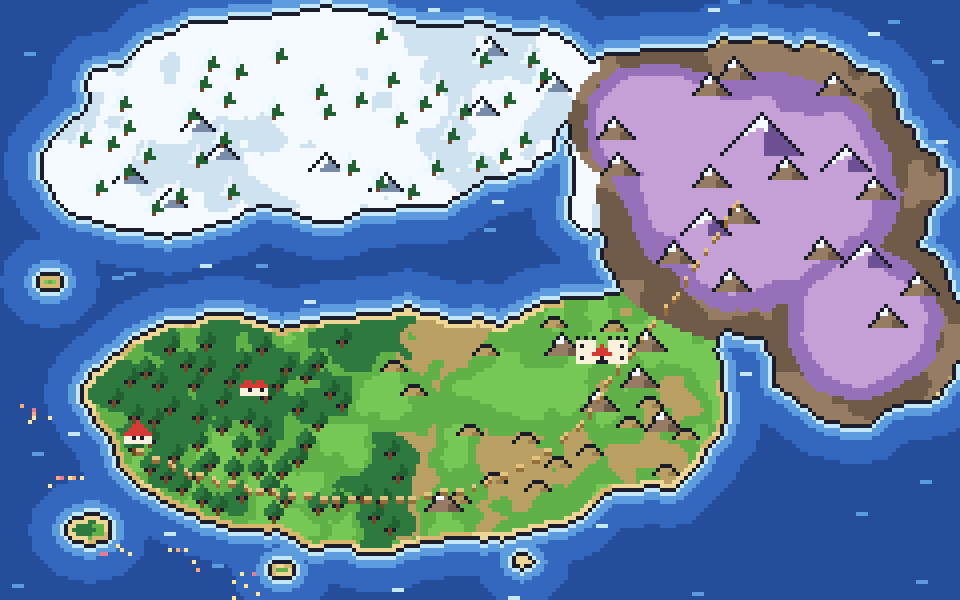
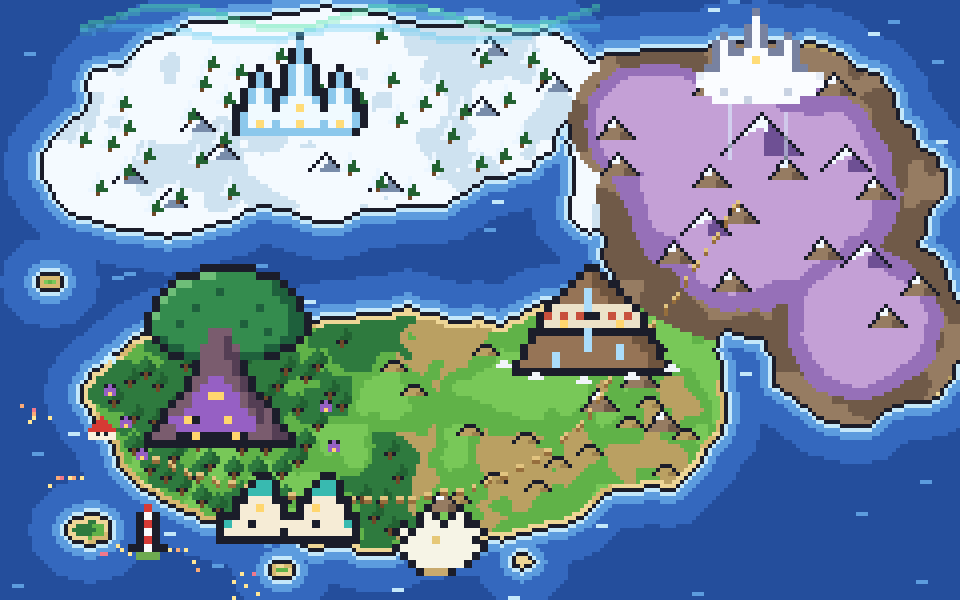
Aventura: Arena e Exploração num botão só, mapa com as cidades (#102)
- Botão ⚔ Aventura no topo abre a central com o cartão da Exploração
- Exploração volta para a Aventura; batalha selvagem volta para o mapa
- Mapa em pixel art com marcos de cada cidade (árvore de Sylphora,
  cúpulas e concha de Nerona, cidade na encosta de Altamuralha,
  catedral de gelo de Frostrine, castelo nas nuvens de Aelora)

Claude-Session: https://claude.ai/code/session_013JyCAbP4UpeaykqZdDYVhA

diff --git a/styles/explore-v7.css b/styles/explore-v7.css
@@ -6,7 +6,7 @@
 .ex7-topico{display:inline-grid;place-items:center;width:20px;height:20px}
 .ex7-px{image-rendering:pixelated;flex:none}
 
-.ex7{position:fixed;inset:0;z-index:10001;display:grid;place-items:center;padding:14px;background:rgba(8,14,12,.7);backdrop-filter:blur(2px)}
+.ex7{position:fixed;inset:0;z-index:10060;display:grid;place-items:center;padding:14px;background:rgba(8,14,12,.7);backdrop-filter:blur(2px)}
 .ex7[hidden]{display:none}
 body.ex7-open{overflow:hidden}
 .ex7-win{position:relative;width:min(1240px,100%);height:min(820px,calc(100vh - 28px));display:grid;grid-template-rows:auto 1fr;overflow:hidden;
@@ -29,19 +29,19 @@ body.ex7-open{overflow:hidden}
 .ex7-lifebar i.low{background:linear-gradient(180deg,#ff7a6e,#d0362c)}
 .ex7-lifebar b{position:relative;display:block;text-align:center;font:700 10px/12px var(--cl-pixel,monospace);color:#fff;text-shadow:0 1px 0 #000,1px 0 0 #000,-1px 0 0 #000,0 -1px 0 #000}
 .ex7-life small{font:700 9px var(--cl-pixel,monospace);white-space:nowrap;color:#5a4410}
-.ex7-x{width:38px;height:38px;border-radius:10px;border:3px solid #181a24;background:#fff;color:#181a24;font:900 16px inherit;cursor:pointer;box-shadow:0 3px 0 #181a24}
+.ex7-x{width:38px;height:38px;border-radius:10px;border:3px solid #181a24;background:#fff;color:#181a24;font-weight:900;font-size:16px;cursor:pointer;box-shadow:0 3px 0 #181a24}
 .ex7-x:active{transform:translateY(2px);box-shadow:0 1px 0 #181a24}
 
 .ex7-body{position:relative;min-height:0;display:grid;gap:14px;padding:14px;overflow:auto}
 .ex7-btn{display:inline-flex;align-items:center;justify-content:center;gap:6px;padding:8px 12px;border-radius:10px;border:3px solid #181a24;background:#fff;color:#181a24;
-  font:800 13px/1.1 inherit;cursor:pointer;box-shadow:0 3px 0 #181a24;white-space:nowrap}
+  font-weight:800;font-size:13px;line-height:1.1;cursor:pointer;box-shadow:0 3px 0 #181a24;white-space:nowrap}
 .ex7-btn small{font-weight:700;opacity:.7}
 .ex7-btn:hover:not(:disabled){filter:brightness(1.05)}
 .ex7-btn:active:not(:disabled){transform:translateY(2px);box-shadow:0 1px 0 #181a24}
 .ex7-btn.primary{background:linear-gradient(180deg,#5cc483,#2f8a4a);color:#fff}
 .ex7-btn.ghost{background:#efe7cf}
 .ex7-btn:disabled{opacity:.45;cursor:not-allowed}
-.ex7-type{display:inline-block;margin:0 3px 0 0;padding:2px 6px;border-radius:6px;background:var(--t);color:#fff;font:800 10px/1.2 inherit;text-shadow:0 1px 0 rgba(0,0,0,.35);border:1px solid rgba(0,0,0,.25)}
+.ex7-type{display:inline-block;margin:0 3px 0 0;padding:2px 6px;border-radius:6px;background:var(--t);color:#fff;font-weight:800;font-size:10px;line-height:1.2;text-shadow:0 1px 0 rgba(0,0,0,.35);border:1px solid rgba(0,0,0,.25)}
 
 /* ---------- mapa ---------- */
 .ex7-mapbody{grid-template-columns:minmax(0,1.35fr) minmax(300px,1fr);align-items:start}
@@ -54,23 +54,23 @@ body.ex7-open{overflow:hidden}
 .ex7-maplabel{position:absolute;transform:translate(-50%,-50%);font:700 9px var(--cl-pixel,monospace);letter-spacing:.06em;color:#fff;text-shadow:1px 1px 0 #181a24,-1px -1px 0 #181a24,1px -1px 0 #181a24,-1px 1px 0 #181a24;pointer-events:none;z-index:2;white-space:nowrap}
 .ex7-maplabel.big{font-size:13px;letter-spacing:.2em;opacity:.85}
 .ex7-maplabel.peak{color:#f3d2ff}
-.ex7-pin{position:absolute;transform:translate(-50%,-100%);display:grid;justify-items:center;z-index:3;pointer-events:auto}
-.ex7-pin-ico{display:grid;place-items:center;width:36px;height:36px;border-radius:50%;background:#fff;border:3px solid #181a24;box-shadow:0 3px 0 #181a24,0 0 0 3px var(--c) inset}
-.ex7-pin-ico b{font:900 18px var(--cl-pixel,monospace);color:#555}
-.ex7-pin-name{margin-top:3px;padding:2px 7px;border-radius:6px;background:#181a24;color:#fff;font:700 10px var(--cl-pixel,monospace);white-space:nowrap}
+.ex7-pin{position:absolute;transform:translate(-50%,0);display:grid;justify-items:center;z-index:3;pointer-events:auto}
+.ex7-pin-ico{display:inline-grid;place-items:center;width:18px;height:18px;border-radius:5px;background:#fff;border:2px solid #181a24}
+.ex7-pin-ico b{font:900 11px var(--cl-pixel,monospace);color:#555}
+.ex7-pin-name{display:inline-flex;align-items:center;gap:5px;padding:2px 7px 2px 3px;border-radius:7px;background:#181a24;color:#fff;font:700 10px var(--cl-pixel,monospace);white-space:nowrap;box-shadow:0 2px 0 rgba(0,0,0,.4)}
 .ex7-pin.unknown{opacity:.85}
-.ex7-pin.unknown .ex7-pin-ico{background:#d9dde6;box-shadow:0 3px 0 #181a24}
-.ex7-pin.here .ex7-pin-ico{animation:ex7-bob 1.2s ease-in-out infinite;box-shadow:0 3px 0 #181a24,0 0 0 3px var(--c) inset,0 0 0 6px rgba(255,210,63,.75)}
-.ex7-pin.here .ex7-pin-name{background:var(--c);border:2px solid #181a24}
+.ex7-pin.unknown .ex7-pin-ico{background:#d9dde6}
+.ex7-pin.here{animation:ex7-bob 1.2s ease-in-out infinite}
+.ex7-pin.here .ex7-pin-name{background:var(--c);border:2px solid #181a24;box-shadow:0 0 0 3px rgba(255,210,63,.8)}
 .ex7-here{display:inline-flex;align-items:center;gap:3px;margin-top:3px;padding:2px 6px;border-radius:6px;background:#ffd23f;border:2px solid #181a24;font:700 9px var(--cl-pixel,monospace);color:#3a2a00;white-space:nowrap}
 @keyframes ex7-bob{50%{transform:translateY(-4px)}}
-.ex7-mapnote{display:flex;align-items:center;gap:6px;margin:0;font:700 12px inherit;color:#5a4a20}
+.ex7-mapnote{display:flex;align-items:center;gap:6px;margin:0;font-weight:700;font-size:12px;color:#5a4a20}
 
 .ex7-region{display:grid;gap:10px;padding:12px;border:3px solid #181a24;border-radius:12px;background:#fffdf3;box-shadow:0 4px 0 #181a24;border-top:8px solid var(--c)}
 .ex7-rhead{display:flex;align-items:center;gap:10px}
 .ex7-rhead>div{flex:1;display:grid}
 .ex7-rhead b{font:400 22px var(--cl-title,inherit)}
-.ex7-rhead small{font:700 11px inherit;color:#6a5a30}
+.ex7-rhead small{font-weight:700;font-size:11px;color:#6a5a30}
 .ex7-rico{display:grid;place-items:center;width:52px;height:52px;border-radius:12px;background:var(--c);border:3px solid #181a24;box-shadow:0 3px 0 #181a24}
 .ex7-rico.sm{width:38px;height:38px}
 .ex7-rdesc{margin:0;font-size:13px;line-height:1.45;color:#3a3324}
@@ -106,7 +106,7 @@ body.ex7-open{overflow:hidden}
 .ex7-areahead{display:flex;align-items:center;gap:10px;padding:8px 10px;border:3px solid #181a24;border-radius:12px;background:#fffdf3;box-shadow:0 3px 0 #181a24;border-left:8px solid var(--c)}
 .ex7-areahead>div{flex:1;display:grid;min-width:0}
 .ex7-areahead b{font:400 19px var(--cl-title,inherit)}
-.ex7-areahead small{font:700 11px inherit;color:#6a5a30}
+.ex7-areahead small{font-weight:700;font-size:11px;color:#6a5a30}
 .ex7-grid{width:100%;max-width:min(100%,calc((100vh - 290px)*1.4));justify-self:center;display:grid;grid-template-columns:repeat(var(--w),1fr);gap:4px;padding:8px;border:3px solid #181a24;border-radius:12px;background:#2c3a2c;box-shadow:0 4px 0 #181a24}
 .ex7-tile{position:relative;aspect-ratio:1;display:grid;place-items:center;border:2px solid rgba(0,0,0,.45);border-radius:8px;cursor:default;padding:0;overflow:hidden;
   box-shadow:inset 0 -4px 0 rgba(0,0,0,.18),inset 0 2px 0 rgba(255,255,255,.25)}
@@ -172,11 +172,11 @@ body.ex7-open{overflow:hidden}
 .ex7-foe{display:flex;align-items:center;gap:12px;width:100%;text-align:left}
 .ex7-foeimg{position:relative;flex:none;width:112px;height:112px;display:grid;place-items:center;border:3px solid #181a24;border-radius:14px;box-shadow:inset 0 -14px 0 rgba(0,0,0,.12)}
 .ex7-foeimg img{width:96px;height:96px;object-fit:contain;filter:drop-shadow(0 3px 0 rgba(0,0,0,.3));animation:ex7-pop .4s}
-.ex7-shiny{position:absolute;bottom:-8px;padding:1px 6px;border-radius:6px;background:#ffd23f;border:2px solid #181a24;font:700 10px inherit}
+.ex7-shiny{position:absolute;bottom:-8px;padding:1px 6px;border-radius:6px;background:#ffd23f;border:2px solid #181a24;font-weight:700;font-size:10px}
 .ex7-foeinfo{display:grid;gap:4px}
 .ex7-foeinfo b{font:400 22px var(--cl-title,inherit)}
 .ex7-foeinfo small{font-size:12px;color:#6a5a30}
-.ex7-rar{justify-self:start;padding:2px 8px;border-radius:8px;border:2px solid #181a24;font:700 11px inherit;background:#e8e8e8}
+.ex7-rar{justify-self:start;padding:2px 8px;border-radius:8px;border:2px solid #181a24;font-weight:700;font-size:11px;background:#e8e8e8}
 .ex7-rar.r-uncommon{background:#d6f0ff}.ex7-rar.r-rare{background:#ffe9a8}.ex7-rar.r-veryrare{background:#f3d2ff}
 
 /* captura */
@@ -198,8 +198,8 @@ body.ex7-open{overflow:hidden}
 .ex7-ballfx.shake .ex7-ball{animation:ex7-wob .5s ease-in-out infinite}
 @keyframes ex7-wob{25%{transform:rotate(-22deg)}75%{transform:rotate(22deg)}}
 .ex7-ballfx.caught .ex7-ball{filter:brightness(.8)}
-.ex7-stars{position:absolute;margin-top:-56px;font:900 18px inherit;color:#ffd23f;text-shadow:0 2px 0 #181a24;animation:ex7-pop .4s}
-.ex7-capmsg{position:absolute;bottom:8px;left:50%;transform:translateX(-50%);padding:3px 10px;border-radius:8px;background:#181a24;color:#fff;font:700 12px inherit;white-space:nowrap}
+.ex7-stars{position:absolute;margin-top:-56px;font-weight:900;font-size:18px;color:#ffd23f;text-shadow:0 2px 0 #181a24;animation:ex7-pop .4s}
+.ex7-capmsg{position:absolute;bottom:8px;left:50%;transform:translateX(-50%);padding:3px 10px;border-radius:8px;background:#181a24;color:#fff;font-weight:700;font-size:12px;white-space:nowrap}
 .ex7-capmsg.caught{background:#2f8a4a}.ex7-capmsg.fail{background:#b0362c}
 .ex7-capballs{display:flex;flex-wrap:wrap;justify-content:center;gap:6px}
 .ex7-capball{display:grid;justify-items:center;gap:1px;padding:5px 8px;border:2px solid #181a24;border-radius:10px;background:#fff;cursor:pointer;color:#222}
@@ -223,7 +223,25 @@ body.ex7-open{overflow:hidden}
   .ex7-grid{gap:3px;padding:5px}
   .ex7-areahead{flex-wrap:wrap}.ex7-areahead b{font-size:16px}.ex7-areahead .ex7-btn{width:100%}
   .ex7-rhead{flex-wrap:wrap}.ex7-rhead .ex7-btn{width:100%}
-  .ex7-maplabel{font-size:7px}.ex7-maplabel.big{font-size:9px}.ex7-pin-ico{width:28px;height:28px}.ex7-pin-name{font-size:8px}.ex7-here{display:none}
+  .ex7-maplabel{font-size:7px}.ex7-maplabel.big{font-size:9px}.ex7-pin-ico{width:14px;height:14px}.ex7-pin-name{font-size:8px}.ex7-here{display:none}
   .ex7-foeimg{width:88px;height:88px}.ex7-foeimg img{width:76px;height:76px}
 }
-@media (prefers-reduced-motion:reduce){.ex7-pin.here .ex7-pin-ico,.ex7-me,.ex7-bounce{animation:none}}
+@media (prefers-reduced-motion:reduce){.ex7-pin.here,.ex7-me,.ex7-bounce{animation:none}}
+.ex7-pin.here{animation-name:ex7-bobc}
+@keyframes ex7-bobc{0%,100%{transform:translate(-50%,0)}50%{transform:translate(-50%,-4px)}}
+.ex7-back{padding:8px 12px;border-radius:10px;border:3px solid #181a24;background:#fff;color:#181a24;font-weight:800;font-size:12px;cursor:pointer;box-shadow:0 3px 0 #181a24;white-space:nowrap}
+.ex7-back:active{transform:translateY(2px);box-shadow:0 1px 0 #181a24}
+
+/* cartão da Exploração dentro da Aventura */
+.ar9-explore{position:relative;overflow:hidden;display:grid;grid-template-columns:150px 1fr auto;gap:14px;align-items:center;padding:12px 14px;margin-bottom:12px;border-radius:16px;color:#fff;
+  background:radial-gradient(circle at 85% 30%,rgba(255,255,255,.14),transparent 45%),linear-gradient(135deg,#2f8a4a,#174a28)}
+.ar9-ex-map{height:94px;border-radius:12px;border:3px solid #181a24;box-shadow:0 3px 0 #181a24;background:#24509c url('../assets/explore/helikon-map.png') center/cover no-repeat;image-rendering:pixelated}
+.ar9-ex-txt{display:grid;gap:4px;min-width:0}
+.ar9-ex-txt small{font:700 10px var(--cl-pixel,monospace);letter-spacing:.06em;text-transform:uppercase;opacity:.85}
+.ar9-ex-txt h3{margin:0;font:400 24px var(--cl-title,inherit);text-shadow:0 2px 0 rgba(0,0,0,.35)}
+.ar9-ex-txt h3 em{display:block;margin-top:2px;font-family:var(--cl-pixel,monospace);font-weight:700;font-size:11px;font-style:normal;opacity:.85;text-shadow:none}
+.ar9-ex-txt p{margin:0;font-size:13px}
+.ar9-ex-life{position:relative;display:block;width:min(220px,100%);height:16px;border:2px solid #181a24;border-radius:6px;background:#3b2525;overflow:hidden}
+.ar9-ex-life i{position:absolute;inset:0 auto 0 0;background:linear-gradient(180deg,#5fe08a,#2ea85a)}
+.ar9-ex-life b{position:relative;display:block;text-align:center;font:700 10px/12px var(--cl-pixel,monospace);text-shadow:0 1px 0 #000}
+@media (max-width:760px){.ar9-explore{grid-template-columns:1fr}.ar9-ex-map{height:110px}.ar9-ex-act .ar7-btn{width:100%}}

diff --git a/scripts/explore-v7.js b/scripts/explore-v7.js
@@ -67,7 +67,7 @@
   /* ---------- Elysius · Helikon ---------- */
   const MAP_W=240,MAP_H=150; // mapa em pixel art de Helikon (assets/explore/helikon-map.png, 240×150 ampliado 4×)
   const REGIONS={
-    sylphora:{id:"sylphora",name:"Sylphora",biome:"Floresta",icon:"tree",lv:[8,18],bst:450,color:"#3f9e57",pos:[58,92],
+    sylphora:{id:"sylphora",name:"Sylphora",biome:"Floresta",icon:"tree",lv:[8,18],bst:450,color:"#3f9e57",pos:[57,112],
[1 lines of base64/hex data omitted]
       desc:"A grande floresta do oeste de Helikon. Copas fechadas, riachos escondidos e muitos Pokémon Planta e Inseto.",
       areas:[
@@ -76,7 +76,7 @@
         {id:"copa",name:"Copa Antiga",types:["Flying","Bug","Normal"],scene:"forest",tiles:{tree:6,grass:3,path:2}},
         {id:"riacho",name:"Riacho Sombreado",types:["Water","Grass","Ghost"],scene:"night",dusk:true,tiles:{water:4,tree:4,grass:3,path:1}}
       ]},
-    nerona:{id:"nerona",name:"Nerona",biome:"Mares",icon:"wave",lv:[10,22],bst:470,color:"#3d7fd6",pos:[22,142],
+    nerona:{id:"nerona",name:"Nerona",biome:"Mares",icon:"wave",lv:[10,22],bst:470,color:"#3d7fd6",pos:[72,139],
[1 lines of base64/hex data omitted]
       desc:"Os mares e a costa sul de Helikon, por onde passa a Rota do Dragão. Praias, recifes e grutas de maré.",
       areas:[
@@ -85,7 +85,7 @@
         {id:"falesias",name:"Falésias do Vento",types:["Flying","Water","Normal"],scene:"sky",tiles:{rock:4,grass:3,cloud:2,water:2,path:1}},
         {id:"grutas",name:"Grutas da Maré",types:["Water","Dark","Ghost"],scene:"cave",dusk:true,tiles:{cave:5,water:4,rock:3}}
       ]},
-    altamuralha:{id:"altamuralha",name:"Altamuralha",biome:"Montanhas e Vales",icon:"rock",lv:[15,30],bst:530,color:"#a2763c",pos:[151,86],
+    altamuralha:{id:"altamuralha",name:"Altamuralha",biome:"Montanhas e Vales",icon:"rock",lv:[15,30],bst:530,color:"#a2763c",pos:[150,95],
[1 lines of base64/hex data omitted]
       desc:"A Grande Cidade na montanha, lar do Rochedo Eterno. Trilhas de pedra, vales de vento e cavernas de cristal no fim da Rota do Dragão.",
       areas:[
@@ -95,7 +95,7 @@
         {id:"rio",name:"Rio das Pedras",types:["Water","Ground","Rock"],scene:"mountain",tiles:{water:4,rock:3,grass:3,path:2}},
         {id:"encostas",name:"Encostas Floridas",types:["Grass","Fairy","Bug"],scene:"forest",tiles:{flower:4,grass:4,tree:2,rock:2}}
       ]},
-    frostrine:{id:"frostrine",name:"Frostrine",biome:"Montanhas Nevadas e Florestas Gélidas",icon:"snow",lv:[28,42],bst:560,color:"#7fb8d8",pos:[70,30],secret:true,
+    frostrine:{id:"frostrine",name:"Frostrine",biome:"Montanhas Nevadas e Florestas Gélidas",icon:"snow",lv:[28,42],bst:560,color:"#7fb8d8",pos:[76,34],secret:true,
[1 lines of base64/hex data omitted]
       desc:"Além de Altamuralha, a neve cobre montanhas e florestas inteiras. O frio corta, e cada passo pesa.",
       areas:[
@@ -103,7 +103,7 @@
         {id:"encostas",name:"Encostas Nevadas",types:["Ice","Rock","Steel"],scene:"mountain",tiles:{snow:6,rock:4,cave:1}},
         {id:"lago",name:"Lago Congelado",types:["Ice","Water"],scene:"ocean",dive:true,tiles:{water:5,snow:5,rock:1}}
       ]},
-    aelora:{id:"aelora",name:"Aelora",biome:"Pico de Dragons Peak",icon:"star",lv:[40,55],bst:600,color:"#c88bd8",pos:[190,30],secret:true,
+    aelora:{id:"aelora",name:"Aelora",biome:"Pico de Dragons Peak",icon:"star",lv:[40,55],bst:600,color:"#c88bd8",pos:[190,27],secret:true,
[1 lines of base64/hex data omitted]
       desc:"O cume de Dragons Peak, onde a Rota do Dragão termina. Escarpas, ninhos nas nuvens e ruínas antigas.",
       areas:[
@@ -512,6 +512,7 @@
     if(ui.cap&&ui.cap.C.inBattle){captureBack();return;}
     if(ui.busy)return;
     root.hidden=true;document.body.classList.remove("ex7-open");clearInterval(tick);cancelAnimationFrame(ringRaf);
+    refreshHub();
   }
   function hpBar(){
     const mx=maxHp(),h=hpNow(),pc=Math.round(100*h/mx),ms=fullIn();
@@ -526,23 +527,23 @@
       <span class="ex7-logo">${px("compass",34)}</span>
       <div class="ex7-title"><b>Exploração</b><small>Elysius · Helikon · <b>${esc(r.name)}</b></small></div>
       ${hpBar()}
-      <button type="button" class="ex7-x" data-ex="close" aria-label="Fechar exploração">✕</button>
+      <button type="button" class="ex7-back" data-ex="close" aria-label="Voltar para a Aventura">← Aventura</button>
     </header>`;
   }
   function mapView(){
     const x=X(),r=region();
     const pins=ORDER.map(id=>{const g=REGIONS[id];const k=known(id),here=id===x.region;
       return `<div class="ex7-pin${here?" here":""}${k?"":" unknown"}" style="left:${(g.pos[0]/MAP_W*100).toFixed(2)}%;top:${(g.pos[1]/MAP_H*100).toFixed(2)}%;--c:${g.color}" title="${k?esc(g.name+" · "+g.biome):"Região desconhecida"}">
-        <span class="ex7-pin-ico">${k?px(g.icon,22):"<b>?</b>"}</span><span class="ex7-pin-name">${k?esc(g.name):"???"}</span>${here?`<span class="ex7-here">${px("pin",16)} você está aqui</span>`:""}</div>`;}).join("");
+        <span class="ex7-pin-name"><span class="ex7-pin-ico">${k?px(g.icon,14):"<b>?</b>"}</span>${k?esc(g.name):"???"}</span>${here?`<span class="ex7-here">${px("pin",16)} você está aqui</span>`:""}</div>`;}).join("");
     return `<div class="ex7-body ex7-mapbody">
       <section class="ex7-map" aria-label="Mapa de Helikon">
-        <div class="ex7-mapimg"><img src="assets/explore/helikon-map.png?v=1" alt="Mapa em pixel art do continente de Helikon, em Elysius" draggable="false">
-          <span class="ex7-maplabel" style="left:46%;top:88%">Rota do Dragão</span>
-          <span class="ex7-maplabel" style="left:13%;top:66%">Cidade de Helikon</span>
-          <span class="ex7-maplabel big" style="left:47%;top:71%">H E L I K O N</span>
+        <div class="ex7-mapimg"><img src="assets/explore/helikon-map.png?v=2" alt="Mapa em pixel art do continente de Helikon, em Elysius" draggable="false">
+          <span class="ex7-maplabel" style="left:55%;top:86%">Rota do Dragão</span>
+          <span class="ex7-maplabel" style="left:10%;top:64%">Cidade de Helikon</span>
+          <span class="ex7-maplabel big" style="left:41%;top:60%">H E L I K O N</span>
           ${known("frostrine")?"":`<span class="ex7-fog" style="left:2%;top:0%;width:60%;height:44%"></span>`}
           ${known("aelora")?"":`<span class="ex7-fog" style="left:58%;top:4%;width:42%;height:66%"></span>`}
-          <span class="ex7-maplabel peak" style="left:80%;top:62%">Dragons Peak</span>
+          <span class="ex7-maplabel peak" style="left:86%;top:55%">Dragons Peak</span>
           ${pins}
         </div>
         <p class="ex7-mapnote">${px("key",16)} A região só muda com a senha que o Mestre entrega na história.</p>
@@ -714,21 +715,7 @@
     if(ui.view==="area"&&e2&&!ui.ev&&!ui.busy){const d={ArrowLeft:-1,ArrowRight:1,ArrowUp:-W,ArrowDown:W}[e.key];if(d){const to=e2.pos+d;if(to>=0&&to<W*H&&neighbors(e2.pos).includes(to)){e.preventDefault();step(to);}}}
   });
 
-  /* ---------- botão no topo (junto da Arena e da Mochila) ---------- */
-  function mountTop(){
-    let btn=document.getElementById("hhExploreBtn");
-    if(!btn){
-      const brand=document.querySelector(".topbar .brand");if(!brand)return;
-      brand.insertAdjacentHTML("afterend",`<button type="button" id="hhExploreBtn" class="ar7-open-btn ex7-top" aria-label="Exploração: viajar e capturar Pokémon" title="Exploração: viajar e capturar Pokémon"><span class="ex7-topico"></span><span class="ar7-open-txt">Explorar</span></button>`);
-      btn=document.getElementById("hhExploreBtn");
-      btn.addEventListener("click",open);
-    }
-    const ico=btn.querySelector(".ex7-topico");if(ico&&!ico.firstChild&&ensureIcons())ico.innerHTML=px("compass",20);
-    const anchor=document.getElementById("hhBagBtn")||document.getElementById("hhArenaBtn");
-    if(anchor&&anchor.nextElementSibling!==btn)anchor.after(btn);
-  }
-  matchMedia("(min-width:901px)").addEventListener?.("change",()=>setTimeout(mountTop,30));
-  let tries=0;const waitTop=setInterval(()=>{mountTop();if((document.getElementById("hhBagBtn")&&ensureIcons())||++tries>60)clearInterval(waitTop);},250);
-
+  /* Entrada: o cartão de Exploração dentro da Aventura (botão ⚔ Aventura no topo) */
+  function refreshHub(){try{if(!document.getElementById("hhArena")?.hidden)document.dispatchEvent(new CustomEvent("hh:render"));}catch(e){}}
   window.hhExplore={open,close,REGIONS,hpNow,maxHp,get state(){return X();}};
 })();

diff --git a/scripts/arena-online-v7.js b/scripts/arena-online-v7.js
@@ -283,7 +283,7 @@
 
   /* ---------- Interface: casca ---------- */
   const root=document.createElement("section");
-  root.id="hhArena";root.className="ar7";root.hidden=true;root.setAttribute("aria-label","Arena Online");
+  root.id="hhArena";root.className="ar7";root.hidden=true;root.setAttribute("aria-label","Aventura: Exploração e Arena");
   document.body.appendChild(root);
   function open(){
     root.hidden=false;document.body.classList.add("ar7-open");sfx("page");
@@ -332,8 +332,8 @@
   /* Botão ⚔ Arena no topo (computador e celular) */
   const brand=document.querySelector(".topbar .brand");
   if(brand&&!document.getElementById("hhArenaBtn")){
-    brand.insertAdjacentHTML("afterend",`<button type="button" id="hhArenaBtn" class="ar7-open-btn" aria-label="Arena Online: desafie amigos" title="Arena Online: desafie amigos">
-      <span class="ar7-open-ico" aria-hidden="true">⚔</span><span class="ar7-open-txt">Arena</span><i class="ar7-open-dot" hidden></i></button>`);
+    brand.insertAdjacentHTML("afterend",`<button type="button" id="hhArenaBtn" class="ar7-open-btn" aria-label="Aventura: Exploração e Arena" title="Aventura: Exploração, Arena e desafios">
+      <span class="ar7-open-ico" aria-hidden="true">⚔</span><span class="ar7-open-txt">Aventura</span><i class="ar7-open-dot" hidden></i></button>`);
     const btn=document.getElementById("hhArenaBtn");
     btn.addEventListener("click",open);
     // No computador o botão fica junto das ferramentas; no celular, ao lado do ⋮.
@@ -765,7 +765,7 @@
     morph(root,`<div class="ar7-shell">
       <header class="ar7-top">
         <button type="button" class="ar7-back" data-ar="close" aria-label="Voltar para a ficha">← Ficha</button>
-        <div class="ar7-title"><b>⚔ Arena Online</b><small>${B?(B.role==="spec"?"Assistindo batalha":"Batalha"):`Sala <code>${esc(room)}</code> · ${statusText()}`}</small></div>
+        <div class="ar7-title"><b>⚔ Aventura</b><small>${B?(B.role==="spec"?"Assistindo batalha":"Batalha"):`Sala <code>${esc(room)}</code> · ${statusText()}`}</small></div>
         ${B?"":`<button type="button" class="ar7-share" data-ar="share" title="Copiar convite para esta sala">🔗 Convidar</button>`}
       </header>
       <div class="ar7-body">${B?battleView():lobbyView()}</div>
@@ -836,8 +836,23 @@
   const TABS=[["sala","people","Sala","Desafiar e assistir","#e0393e"],["time","ball","Meu time","Escalação","#e39a12"],["ranking","trophy","Ranking","Desafio Sem Fim","#c9961a"],["chat","chat","Chat","Conversa","#2f74d4"],["ajustes","gear","Ajustes","Sala e regras","#7a5ad0"]];
   const wideMq=matchMedia("(min-width:1100px)");
   wideMq.addEventListener?.("change",()=>{if(!B)render();});
+  /* Exploração de Helikon: primeiro cartão da Aventura (funciona sem internet da sala) */
+  function exploreCard(){
+    const X=window.hhExplore;if(!X)return "";
+    let st={},r=null,hp=0,mx=1;
+    try{st=X.state;r=X.REGIONS[st.region];hp=Math.floor(X.hpNow());mx=X.maxHp();}catch(e){return "";}
+    const pc=Math.round(100*hp/mx),inExp=st.exp&&st.exp.region===st.region;
+    const area=inExp?r.areas.find(a=>a.id===st.exp.area):null;
+    return `<section class="ar9-explore ar8-frame" style="--c:${r?.color||"#3f9e57"}">
+      <div class="ar9-ex-map" aria-hidden="true"></div>
+      <div class="ar9-ex-txt"><small>Exploração · Elysius · Helikon</small><h3>${esc(r?.name||"")} <em>${esc(r?.biome||"")} · Lv. ${r?.lv?.[0]}–${r?.lv?.[1]}</em></h3>
+        <p>${area?`Expedição em andamento: <b>${esc(area.name)}</b>.`:`Encontre Pokémon selvagens e itens nas ${r?.areas?.length||0} áreas da região.`}</p>
+        <span class="ar9-ex-life" title="Vida do treinador"><i style="width:${pc}%"></i><b>❤ ${hp}/${mx}</b></span></div>
+      <div class="ar9-ex-act"><button type="button" class="ar7-btn primary" data-ar="explore">🧭 ${area?"Continuar":"Explorar"}</button></div>
+    </section>`;
+  }
   function lobbyView(){
-    if(status==="error")return `<div class="ar7-card ar7-empty"><b>Não foi possível conectar à arena.</b><p>Confira a internet e tente de novo.</p><button type="button" class="ar7-btn primary" data-ar="retry">Tentar de novo</button></div>`;
+    if(status==="error")return `${exploreCard()}<div class="ar7-card ar7-empty"><b>Não foi possível conectar à arena.</b><p>Confira a internet e tente de novo.</p><button type="button" class="ar7-btn primary" data-ar="retry">Tentar de novo</button></div>`;
     const list=Object.values(people).sort((a,b)=>(a.id===me.id?-1:b.id===me.id?1:a.name.localeCompare(b.name)));
     const others=list.filter(p=>p.id!==me.id);
     const battles={};
@@ -868,6 +883,7 @@
       <div class="ar8-party" aria-label="Seu time">${Array.from({length:6},(_,i)=>{const p=slots[i];if(!p)return `<span class="ar8-slot empty">${PX("ball",22)}</span>`;const im=localImg(p);return `<span class="ar8-slot${i===0?" lead":""}" title="${esc(p.name)} • Lv. ${Number(p.level||1)}" style="--t:${typeColor(p.type1)}">${im?`<img src="${esc(im)}" alt="${esc(p.name)}">`:`<i>${esc((p.name||"?").slice(0,1))}</i>`}<small>Lv${Number(p.level||1)}</small></span>`;}).join("")}</div>
     </section>
     ${outgoing?`<section class="ar7-card ar7-wait"><b>Desafio enviado para ${esc(people[outgoing.to]?.name||"…")}</b><small>${outgoing.format>=6?"time todo":`${outgoing.format} vs ${outgoing.format}`} · aguardando resposta</small><button type="button" class="ar7-btn" data-ar="cancel">Cancelar</button></section>`:""}
+    ${exploreCard()}
     <section class="ar8-modes">
       <article class="ar8-mode friends ar8-frame">
         <span class="ar8-mode-ico">${PX("swords",72)}</span>
@@ -1180,6 +1196,7 @@
     if(!engine){toast("A Arena ainda está carregando.");return false;}
     const team=await buildTeam(6);
     if(!team.length){toast("Coloque Pokémon na Equipe primeiro.");return false;}
+    opt.fromHub=!root.hidden;
     const th=opt.teamHp||{};
     RUN={wild:opt,wave:1,team,hp:team.map(m=>{const mx=Math.max(1,Number(m.maxHp||1));const h=th[m.fid];return h?{hp:Math.max(0,Math.min(mx,Math.round(mx*h.pct))),maxHp:mx,fainted:!!h.fainted||h.pct<=0}:{hp:mx,maxHp:mx,fainted:false};}),
       train:0,dmg:dmgMode,cleared:0,done:false,region:null,mode:"wild",ppg:{},lastGains:[],attempt:0};
@@ -1230,7 +1247,8 @@
     if(kind==="caught"&&!RUN.done){try{awardPpg();}catch(e){console.error(e);}}
     const res={outcome:kind==="back"?(RUN.result||"lost"):kind,teamHp:RUN.snap||wildSnapshot(),foe:RUN.foeEnd||wildFoe(),gains:(RUN.lastGains||[]).filter(g=>g.n>0)};
     B=null;RUN=null;track();
-    root.hidden=true;document.body.classList.remove("ar7-open");
+    if(W.fromHub)render(true);
+    else{root.hidden=true;document.body.classList.remove("ar7-open");}
     document.getElementById("hhArenaBtn")?.classList.remove("ar9-running");
     try{W.onEnd?.(res);}catch(e){console.error(e);}
   }
@@ -1595,6 +1613,7 @@
     const b=e.target.closest("[data-ar]");if(!b)return;
     const a=b.dataset.ar;
     if(a==="close")close();
+    else if(a==="explore"){window.hhExplore?.open({from:"arena"});}
     else if(a==="retry"){status="off";connect();}
     else if(a==="room")switchRoom(document.getElementById("ar7Room")?.value);
     else if(a==="share"){
@@ -1669,7 +1688,7 @@
   root.addEventListener("keydown",e=>{
     if(e.key==="Enter"&&e.target.id==="ar7Room"){e.preventDefault();switchRoom(e.target.value);}
     if(e.key==="Escape"&&orderAsk){orderAsk=null;render();return;}
-    if(e.key==="Escape"&&!incoming&&!B)close();
+    if(e.key==="Escape"&&!incoming&&!B&&!document.body.classList.contains("ex7-open"))close();
   });
   window.addEventListener("beforeunload",()=>{if(B)leaveBattle(true);});
 

diff --git a/index.html b/index.html
@@ -1,7 +1,7 @@
 <!DOCTYPE html>
 <html lang="pt-BR">
 <head>
-<meta name="hh-build" content="20261127s2">
+<meta name="hh-build" content="20261127t1">
 <meta charset="UTF-8" />
 <meta name="viewport" content="width=device-width, initial-scale=1.0, viewport-fit=cover" />
 <meta name="theme-color" content="#e0393e" />
@@ -55,7 +55,7 @@
 <link rel="stylesheet" href="styles/trigger-forms-v7.css?v=20261127q3" />
 <link rel="stylesheet" href="styles/update-check-v7.css?v=20261126u1" />
 <link rel="stylesheet" href="styles/items-v7.css?v=20261127q3" />
-<link rel="stylesheet" href="styles/explore-v7.css?v=20261127s2" />
+<link rel="stylesheet" href="styles/explore-v7.css?v=20261127t1" />
 <link rel="stylesheet" href="styles/stat-chart-v7.css?v=20261127q3" />
 <link rel="stylesheet" href="styles/mobile-polish-v6.css?v=20261125m" />
 <link rel="stylesheet" href="styles/encyclopedia-device-v6.css?v=20261109-archive-2" />
@@ -2454,8 +2454,8 @@
   <script src="scripts/arena-fx-v7.js?v=20261126k" defer></script>
   <script src="scripts/arena-pixel-v7.js?v=20261126y" defer></script>
   <script src="scripts/arena-survival-v7.js?v=20261127s1" defer></script>
-  <script src="scripts/arena-online-v7.js?v=20261127s1" defer></script>
-  <script src="scripts/explore-v7.js?v=20261127s2" defer></script>
+  <script src="scripts/arena-online-v7.js?v=20261127t1" defer></script>
+  <script src="scripts/explore-v7.js?v=20261127t1" defer></script>
   <script src="scripts/profiles-v7.js?v=20261126s" defer></script>
   <script src="scripts/dex-library-v7.js?v=20261126t4" defer></script>
   <script src="scripts/mobile-polish-v6.js?v=20261125m" defer></script>

diff --git a/sw.js b/sw.js
@@ -4,7 +4,7 @@
      então servem da cópia guardada e atualizam em segundo plano.
    • Fontes do Google: guardadas depois do primeiro uso.
    Os dados das fichas ficam no save local do navegador, não aqui. */
-const CACHE="ficha-v7-20261127s2";
+const CACHE="ficha-v7-20261127t1";
 const CORE=["./","./index.html","./manifest.webmanifest","./assets/icons/icon-192.png"];
 
 self.addEventListener("install",event=>{
